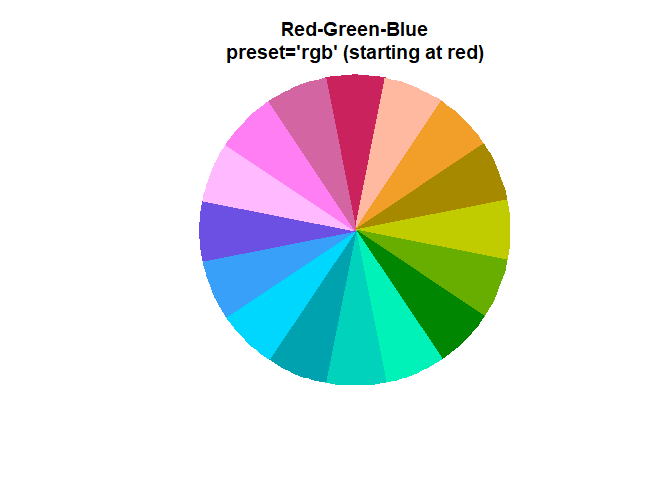
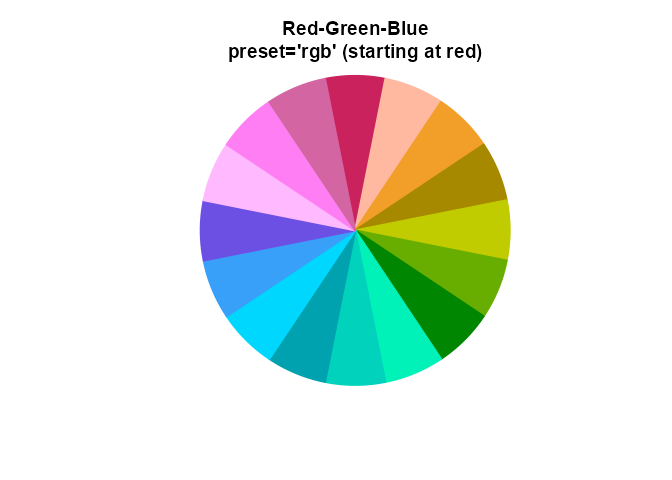
Replaced README figures with clearer output from ragg_png.

Changed region(s): [[0.3125, 0.0312, 0.7188, 0.125], [0.5, 0.4688, 0.5625, 0.5]]

diff --git a/README.md b/README.md
@@ -427,3 +427,72 @@ if (suppressPackageStartupMessages(require(ggplot2))) {
 ```
 
 <img src="man/figures/README-ggplot2_theme_figure-1.png" alt="A ggplot2 figure is shown with several custom options provided by the colorjam theme function theme_jam()."  />
+
+### Tidy Colors
+
+The `colors_to_df()` output is a `data.frame` with sufficient columns to
+enable tidy filtering.
+
+An example with `data.frame` output is shown below:
+
+``` r
+colors_df <- head(colors_to_df(named_colors), 20);
+colors_df
+```
+
+<div class="kable-table">
+
+|  | num | hex | name | H | C | L | alpha | red | green | blue | h | s | v | hsl_h | hsl_s | hsl_l | luv_l | luv_u | luv_v | yxy_y1 | yxy_x | yxy_y2 |
+|:---|---:|:---|:---|---:|---:|---:|---:|---:|---:|---:|---:|---:|---:|---:|---:|---:|---:|---:|---:|---:|---:|---:|
+| pink_prestige | 1 | \#EE99AAFF | pink_prestige | 0.0705808 | 54.40326 | 72.13857 | 1 | 238 | 153 | 170 | 0.9666667 | 0.3571429 | 0.9333333 | 348.0000 | 71.42857 | 76.66667 | 72.13857 | 54.40322 | 0.0670176 | 43.865593 | 0.3811828 | 0.3101709 |
+| raspberry | 2 | \#B00149FF | raspberry | 0.2808081 | 102.90505 | 37.36411 | 1 | 176 | 1 | 73 | 0.9314286 | 0.9943182 | 0.6901961 | 335.3143 | 98.87006 | 34.70588 | 37.36411 | 102.90382 | 0.5043382 | 9.735851 | 0.5306635 | 0.2702127 |
+| vivid_raspberry | 3 | \#FF006CFF | vivid_raspberry | 0.5142031 | 150.75152 | 54.39601 | 1 | 255 | 0 | 108 | 0.9294118 | 1.0000000 | 1.0000000 | 334.5882 | 100.00000 | 50.00000 | 54.39601 | 150.74545 | 1.3529069 | 22.349625 | 0.5328406 | 0.2709530 |
+| borderline_pink | 4 | \#EE1166FF | borderline_pink | 0.5247145 | 138.14189 | 51.31679 | 1 | 238 | 17 | 102 | 0.9358974 | 0.9285714 | 0.9333333 | 336.9231 | 86.66667 | 50.00000 | 51.31679 | 138.13609 | 1.2650851 | 19.543224 | 0.5276855 | 0.2723711 |
+| strawberry_milkshake | 5 | \#D47186FF | strawberry_milkshake | 0.6298097 | 65.86261 | 59.46350 | 1 | 212 | 113 | 134 | 0.9646465 | 0.4669811 | 0.8313725 | 347.2727 | 53.51351 | 63.72549 | 59.46350 | 65.85863 | 0.7239639 | 27.531948 | 0.4115168 | 0.3032503 |
+| pink | 6 | \#FFC0CBFF | pink | 0.6598403 | 38.58612 | 83.58652 | 1 | 255 | 192 | 203 | 0.9708995 | 0.2470588 | 1.0000000 | 349.5238 | 100.00000 | 87.64706 | 83.58652 | 38.58356 | 0.4443627 | 63.274348 | 0.3559281 | 0.3177817 |
+| fever_dream | 7 | \#DD5577FF | fever_dream | 0.6636920 | 93.23099 | 55.28332 | 1 | 221 | 85 | 119 | 0.9583333 | 0.6153846 | 0.8666667 | 345.0000 | 66.66667 | 60.00000 | 55.28332 | 93.22473 | 1.0799272 | 23.205436 | 0.4571880 | 0.2914646 |
+| blush_hour | 8 | \#FF6F91FF | blush_hour | 0.6994852 | 98.31289 | 65.49801 | 1 | 255 | 111 | 145 | 0.9606481 | 0.5647059 | 1.0000000 | 345.8333 | 100.00000 | 71.76471 | 65.49801 | 98.30557 | 1.2002055 | 34.679035 | 0.4430580 | 0.2952573 |
+| warm_pink | 9 | \#FB5581FF | warm_pink | 0.7309388 | 114.38859 | 60.42453 | 1 | 251 | 85 | 129 | 0.9558233 | 0.6613546 | 0.9843137 | 344.0964 | 95.40230 | 65.88235 | 60.42453 | 114.37928 | 1.4592488 | 28.597258 | 0.4727965 | 0.2876836 |
+| minted_blueberry_lemonade | 10 | \#B32651FF | minted_blueberry_lemonade | 0.8475109 | 93.79360 | 40.51949 | 1 | 179 | 38 | 81 | 0.9491726 | 0.7877095 | 0.7019608 | 341.7021 | 64.97696 | 42.54902 | 40.51949 | 93.78333 | 1.3873308 | 11.567001 | 0.5034147 | 0.2803467 |
+| plum_cheese | 11 | \#670728FF | plum_cheese | 1.0703754 | 54.14944 | 20.78795 | 1 | 103 | 7 | 40 | 0.9427083 | 0.9320388 | 0.4039216 | 339.3750 | 87.27273 | 21.56863 | 20.78795 | 54.13999 | 1.0115379 | 3.189649 | 0.5242263 | 0.2762370 |
+| just_pink_enough | 12 | \#FFEBEEFF | just_pink_enough | 1.0844364 | 11.40565 | 94.67497 | 1 | 255 | 235 | 238 | 0.9750000 | 0.0784314 | 1.0000000 | 351.0000 | 100.00000 | 96.07843 | 94.67497 | 11.40361 | 0.2158617 | 86.850890 | 0.3243488 | 0.3261197 |
+| love_juice | 13 | \#CC1155FF | love_juice | 1.1132992 | 118.16675 | 44.08672 | 1 | 204 | 17 | 85 | 0.9393939 | 0.9166667 | 0.8000000 | 338.1818 | 84.61538 | 43.33333 | 44.08672 | 118.14445 | 2.2959227 | 13.898292 | 0.5294945 | 0.2751588 |
+| i_love_you_pink | 14 | \#D97D8FFF | i_love_you_pink | 1.1227836 | 60.58866 | 62.84847 | 1 | 217 | 125 | 143 | 0.9673913 | 0.4239631 | 0.8509804 | 348.2609 | 54.76190 | 67.05882 | 62.84847 | 60.57703 | 1.1872358 | 31.405506 | 0.4002688 | 0.3072867 |
+| vampirella | 15 | \#9B2848FF | vampirella | 1.1384221 | 76.40123 | 35.89973 | 1 | 155 | 40 | 72 | 0.9536232 | 0.7419355 | 0.6078431 | 343.3043 | 58.97436 | 38.23529 | 35.89973 | 76.38615 | 1.5179325 | 8.956152 | 0.4911980 | 0.2847877 |
+| köfte_brown | 16 | \#773644FF | köfte_brown | 1.1754052 | 41.65790 | 31.75826 | 1 | 119 | 54 | 68 | 0.9641026 | 0.5462185 | 0.4666667 | 347.0769 | 37.57225 | 33.92157 | 31.75826 | 41.64914 | 0.8545391 | 6.978651 | 0.4290555 | 0.3002969 |
+| sprinkled_with_pink | 17 | \#E7A2AEFF | sprinkled_with_pink | 1.1934883 | 43.38015 | 73.47320 | 1 | 231 | 162 | 174 | 0.9710145 | 0.2987013 | 0.9058824 | 349.5652 | 58.97436 | 77.05882 | 73.47320 | 43.37074 | 0.9035563 | 45.888618 | 0.3678610 | 0.3154297 |
+| mellow_melon | 18 | \#EE2266FF | mellow_melon | 1.3680192 | 134.59582 | 52.15941 | 1 | 238 | 34 | 102 | 0.9444444 | 0.8571429 | 0.9333333 | 340.0000 | 85.71429 | 53.33333 | 52.15941 | 134.55745 | 3.2133636 | 20.286331 | 0.5238221 | 0.2779303 |
+| paper_hearts | 19 | \#CC4466FF | paper_hearts | 1.5145482 | 93.72115 | 49.41683 | 1 | 204 | 68 | 102 | 0.9583333 | 0.6666667 | 0.8000000 | 345.0000 | 57.14286 | 53.33333 | 49.41683 | 93.68841 | 2.4771227 | 17.934716 | 0.4753347 | 0.2902652 |
+| coral_paradise | 20 | \#E76682FF | coral_paradise | 1.6624202 | 88.49063 | 59.98619 | 1 | 231 | 102 | 130 | 0.9638243 | 0.5584416 | 0.9058824 | 346.9767 | 72.88136 | 65.29412 | 59.98619 | 88.45338 | 2.5671695 | 28.108005 | 0.4431370 | 0.2984228 |
+
+</div>
+
+Two key function use this `data.frame` behavior:
+
+1.  `sort_colors()`
+
+    - Sorting colors requires choosing criteria to sort, and any column
+      returned by `colors_to_df()` can be used.
+    - Most often, it uses the color hue from HCL `'H'`. Did you know
+      that the `'HCL'` and `'hsv'` hues are not the same? They aren’t
+      even in the same order!
+    - The argument `byCols` is used to define the columns to sort, for
+      example: `byCols=c("H", "C", "L")`
+
+2.  `subset_colors()`
+
+    - Again, any column returned by `colors_to_df()` can be used with
+      ‘…’ to apply the equivalent of `subset()` on the `data.frame`.
+    - In fact, shhhhh `sort_colors()` and `subset_colors()` can both
+      filter, and can both sort by columns. The main difference is that
+      `subset_colors()` does not enable sorting by default, while
+      `sort_colors()` does sort by default.
+
+``` r
+new_colors <- head(subset_colors(named_colors,
+   H > 21 & H < 30 & C > 80,
+   byCols=c("H", "-C", "-L")), 20)
+color_pie(new_colors)
+```
+
+<img src="man/figures/README-sort_subset_colors-1.png" alt="Example color wheel showing the result after applying subset and sort to colorjam named_colors."  />
